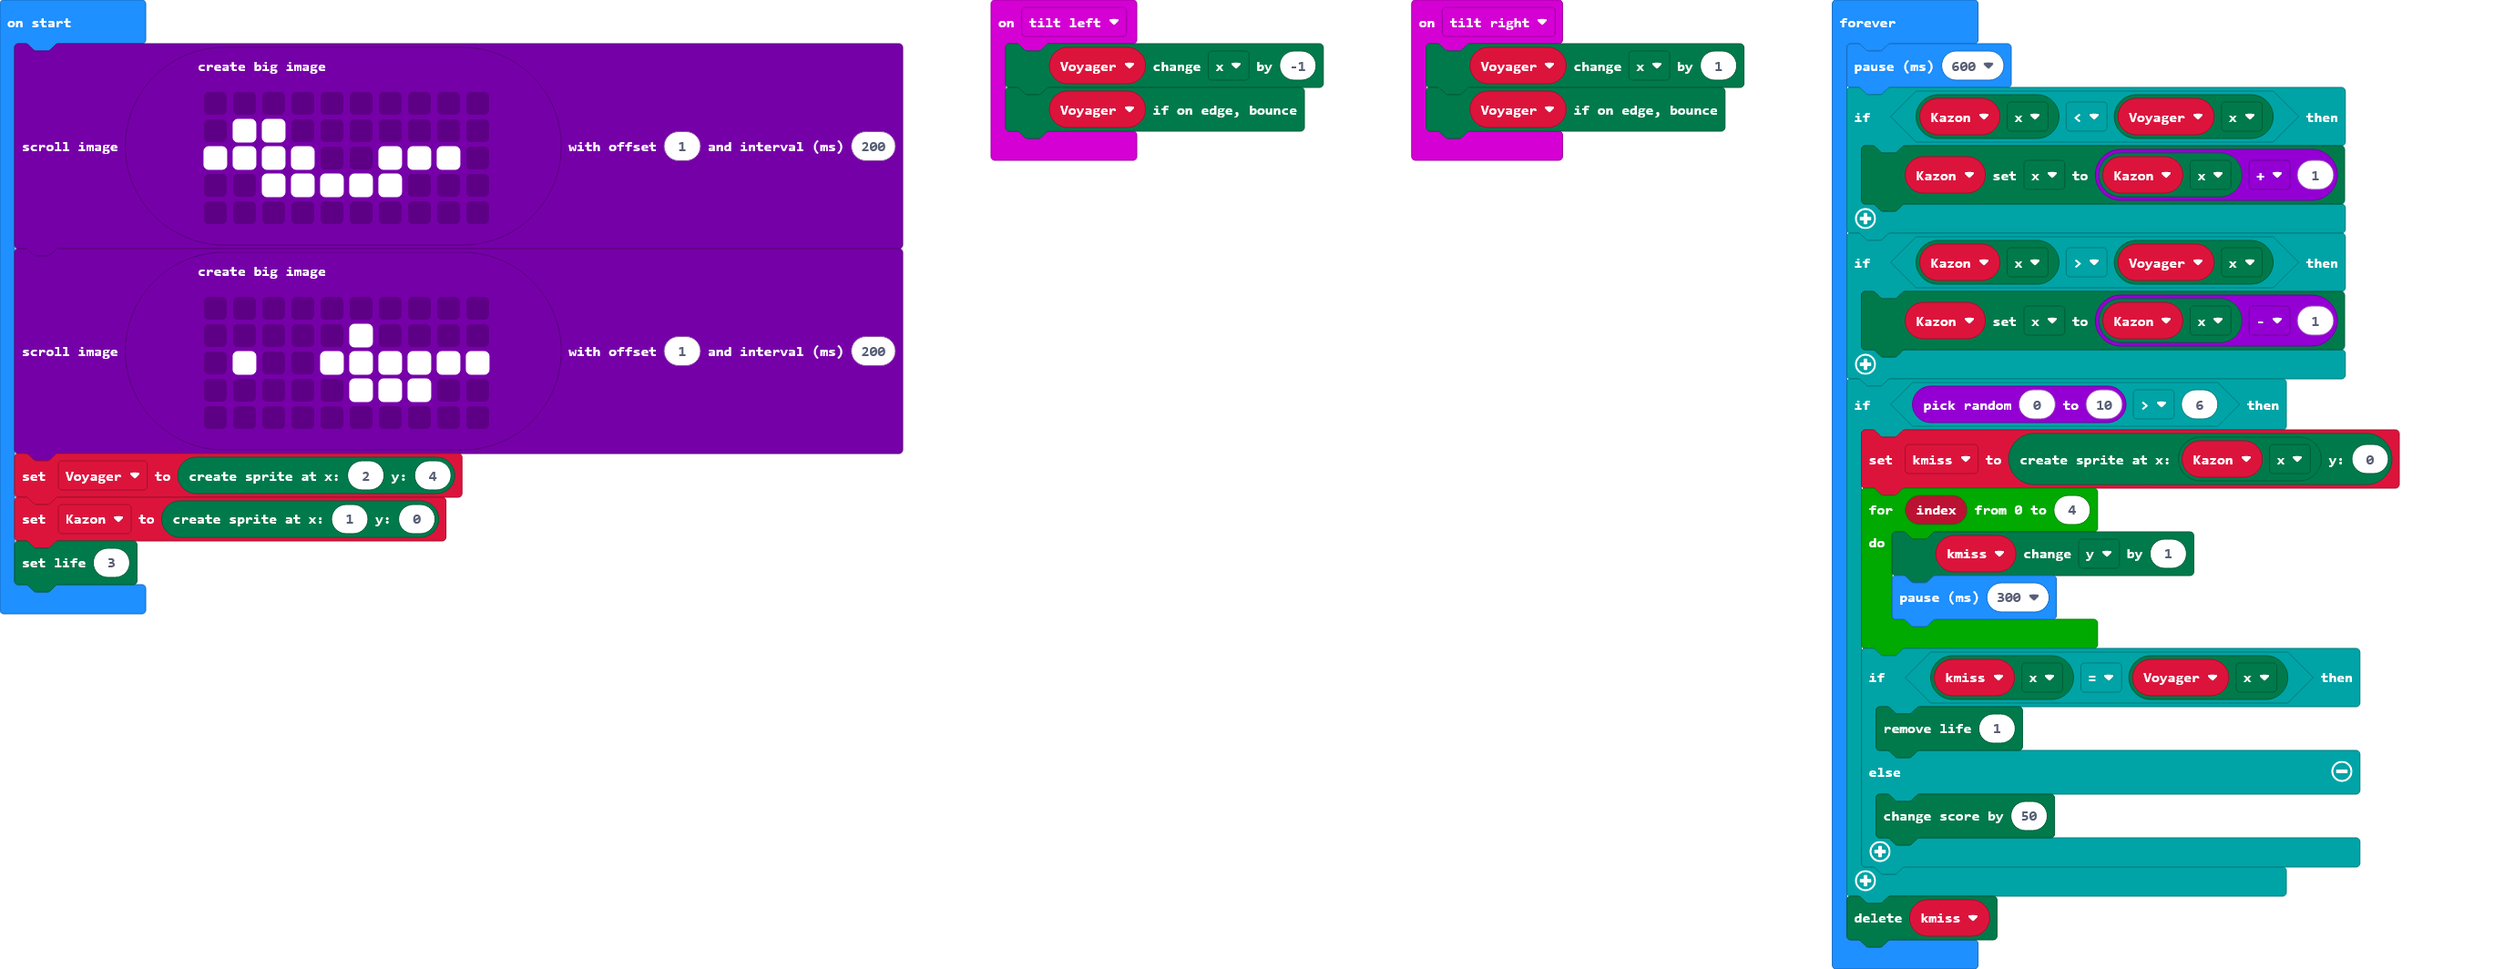
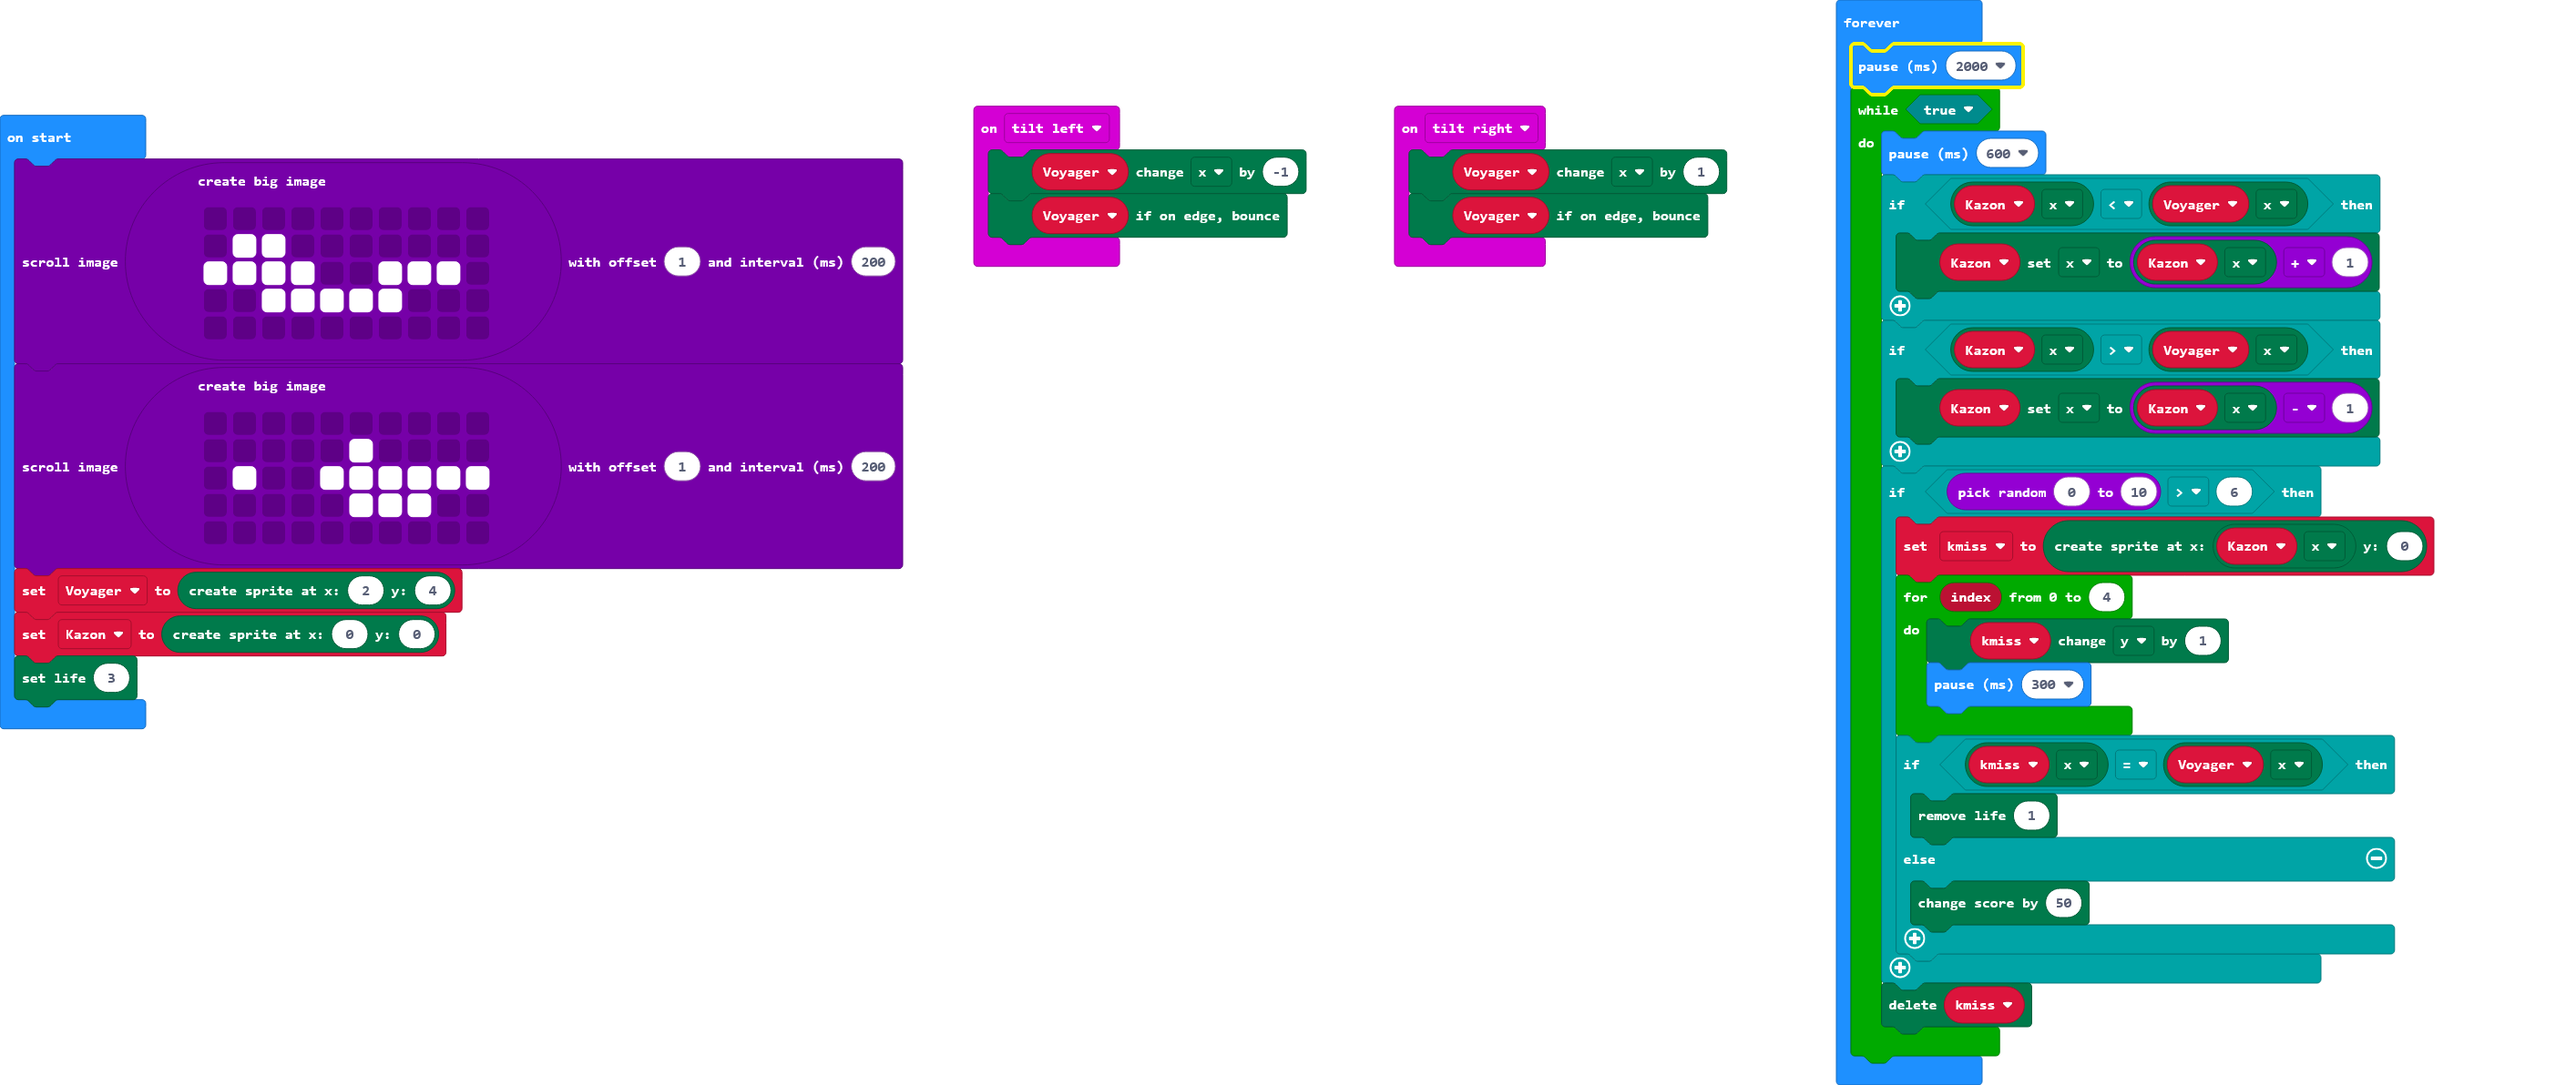
Update main.blocks, main.ts

Changed region(s): [[0.0, 0.0, 0.9624, 1.0], [0.0, 0.4032, 0.031, 0.4342], [0.0, 0.3412, 0.031, 0.3722]]

diff --git a/main.ts b/main.ts
@@ -23,27 +23,30 @@ images.createBigImage(`
     . . . . . . . . . .
     `).scrollImage(1, 200)
 Voyager = game.createSprite(2, 4)
-let Kazon = game.createSprite(1, 0)
+let Kazon = game.createSprite(0, 0)
 game.setLife(3)
 basic.forever(function () {
-    basic.pause(600)
-    if (Kazon.get(LedSpriteProperty.X) < Voyager.get(LedSpriteProperty.X)) {
-        Kazon.set(LedSpriteProperty.X, Kazon.get(LedSpriteProperty.X) + 1)
-    }
-    if (Kazon.get(LedSpriteProperty.X) > Voyager.get(LedSpriteProperty.X)) {
-        Kazon.set(LedSpriteProperty.X, Kazon.get(LedSpriteProperty.X) - 1)
-    }
-    if (randint(0, 10) > 6) {
-        kmiss = game.createSprite(Kazon.get(LedSpriteProperty.X), 0)
-        for (let index = 0; index <= 4; index++) {
-            kmiss.change(LedSpriteProperty.Y, 1)
-            basic.pause(300)
+    basic.pause(2000)
+    while (true) {
+        basic.pause(600)
+        if (Kazon.get(LedSpriteProperty.X) < Voyager.get(LedSpriteProperty.X)) {
+            Kazon.set(LedSpriteProperty.X, Kazon.get(LedSpriteProperty.X) + 1)
         }
-        if (kmiss.get(LedSpriteProperty.X) == Voyager.get(LedSpriteProperty.X)) {
-            game.removeLife(1)
-        } else {
-            game.addScore(50)
+        if (Kazon.get(LedSpriteProperty.X) > Voyager.get(LedSpriteProperty.X)) {
+            Kazon.set(LedSpriteProperty.X, Kazon.get(LedSpriteProperty.X) - 1)
         }
+        if (randint(0, 10) > 6) {
+            kmiss = game.createSprite(Kazon.get(LedSpriteProperty.X), 0)
+            for (let index = 0; index <= 4; index++) {
+                kmiss.change(LedSpriteProperty.Y, 1)
+                basic.pause(300)
+            }
+            if (kmiss.get(LedSpriteProperty.X) == Voyager.get(LedSpriteProperty.X)) {
+                game.removeLife(1)
+            } else {
+                game.addScore(50)
+            }
+        }
+        kmiss.delete()
     }
-    kmiss.delete()
 })
